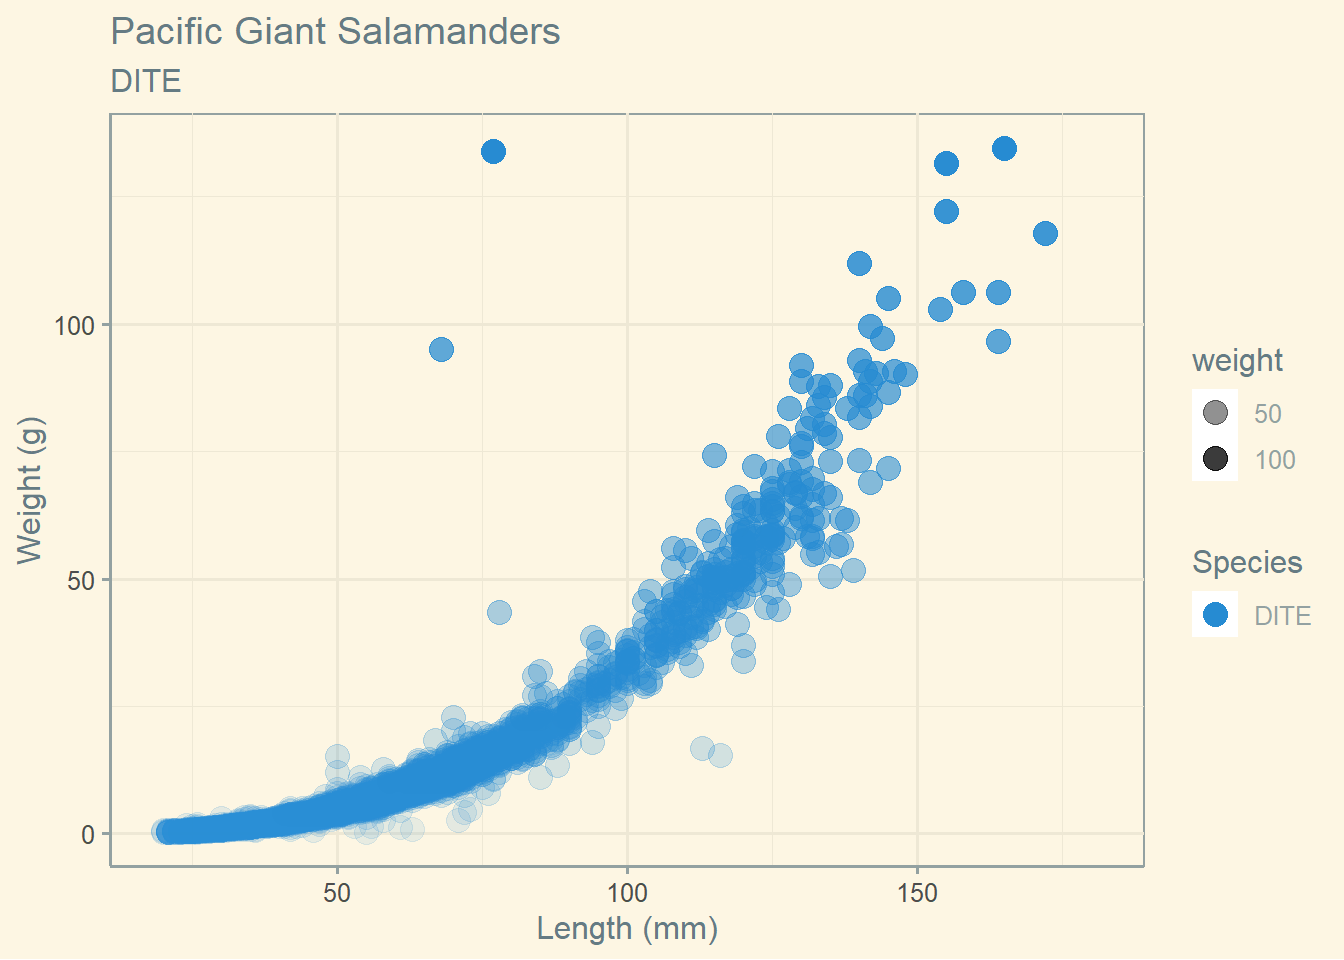
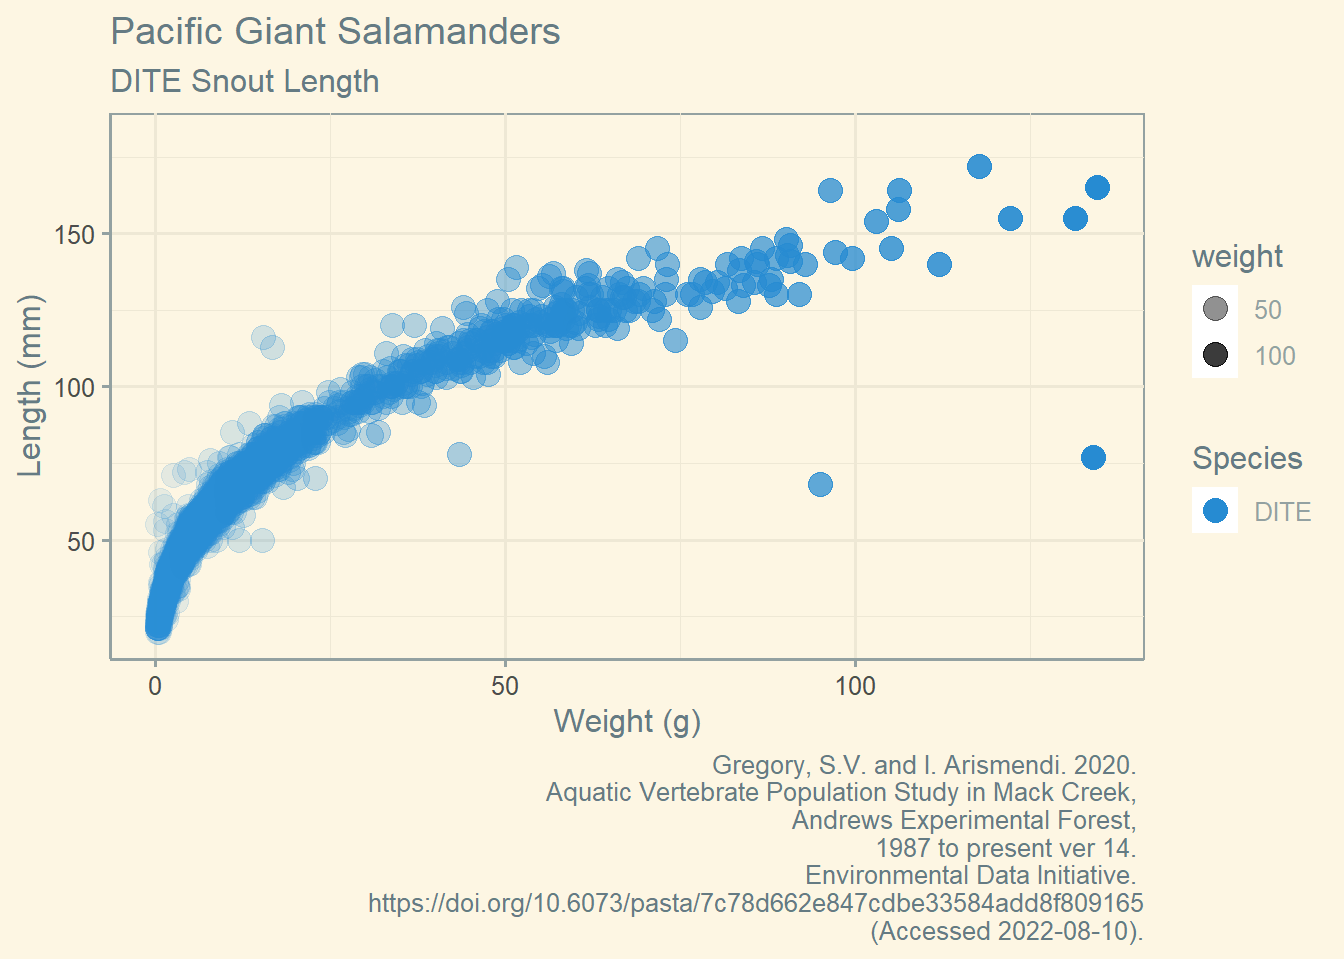
trout plot

diff --git a/wild_data.html b/wild_data.html
@@ -149,25 +149,69 @@ code span.wa { color: #60a0b0; font-weight: bold; font-style: italic; } /* Warni
 <p>Export your scatterplot as salamander_size.png to your figs folder.</p>
 <div class="cell">
 <div class="sourceCode cell-code" id="cb5"><pre class="sourceCode r code-with-copy"><code class="sourceCode r"><span id="cb5-1"><a href="#cb5-1" aria-hidden="true" tabindex="-1"></a><span class="fu">ggplot</span>(<span class="at">data =</span> mc_salamanders, <span class="fu">aes</span>(</span>
-<span id="cb5-2"><a href="#cb5-2" aria-hidden="true" tabindex="-1"></a>  <span class="at">x =</span> length1,</span>
-<span id="cb5-3"><a href="#cb5-3" aria-hidden="true" tabindex="-1"></a>  <span class="at">y =</span> weight,</span>
+<span id="cb5-2"><a href="#cb5-2" aria-hidden="true" tabindex="-1"></a>  <span class="at">x =</span> weight,</span>
+<span id="cb5-3"><a href="#cb5-3" aria-hidden="true" tabindex="-1"></a>  <span class="at">y =</span> length1,</span>
 <span id="cb5-4"><a href="#cb5-4" aria-hidden="true" tabindex="-1"></a>  <span class="at">alpha =</span> weight,</span>
 <span id="cb5-5"><a href="#cb5-5" aria-hidden="true" tabindex="-1"></a>  <span class="at">color =</span> species</span>
 <span id="cb5-6"><a href="#cb5-6" aria-hidden="true" tabindex="-1"></a>)) <span class="sc">+</span> <span class="fu">geom_point</span>(<span class="at">size =</span> <span class="dv">4</span>) <span class="sc">+</span> <span class="fu">theme_solarized</span>() <span class="sc">+</span></span>
 <span id="cb5-7"><a href="#cb5-7" aria-hidden="true" tabindex="-1"></a>  <span class="fu">scale_colour_solarized</span>(<span class="st">"blue"</span>) <span class="sc">+</span> <span class="fu">labs</span>(</span>
-<span id="cb5-8"><a href="#cb5-8" aria-hidden="true" tabindex="-1"></a>  <span class="at">title =</span> <span class="st">'Pacific Giant Salamanders'</span>,</span>
-<span id="cb5-9"><a href="#cb5-9" aria-hidden="true" tabindex="-1"></a>  <span class="at">subtitle =</span> <span class="st">"DITE"</span>,</span>
-<span id="cb5-10"><a href="#cb5-10" aria-hidden="true" tabindex="-1"></a>  <span class="at">x =</span> <span class="st">"Length (mm)"</span>,</span>
-<span id="cb5-11"><a href="#cb5-11" aria-hidden="true" tabindex="-1"></a>  <span class="at">y =</span> <span class="st">"Weight (g)"</span>,</span>
-<span id="cb5-12"><a href="#cb5-12" aria-hidden="true" tabindex="-1"></a>  <span class="at">color =</span> <span class="st">"Species"</span></span>
-<span id="cb5-13"><a href="#cb5-13" aria-hidden="true" tabindex="-1"></a>) </span></code><button title="Copy to Clipboard" class="code-copy-button"><i class="bi"></i></button></pre></div>
-<div class="sourceCode cell-code" id="cb6"><pre class="sourceCode r code-with-copy"><code class="sourceCode r"><span id="cb6-1"><a href="#cb6-1" aria-hidden="true" tabindex="-1"></a>?scale_colour_solarized</span>
+<span id="cb5-8"><a href="#cb5-8" aria-hidden="true" tabindex="-1"></a>    <span class="at">title =</span> <span class="st">'Pacific Giant Salamanders'</span>,</span>
+<span id="cb5-9"><a href="#cb5-9" aria-hidden="true" tabindex="-1"></a>    <span class="at">subtitle =</span> <span class="st">"DITE Snout Length"</span>,</span>
+<span id="cb5-10"><a href="#cb5-10" aria-hidden="true" tabindex="-1"></a>    <span class="at">caption =</span> <span class="st">"Gregory, S.V. and I. Arismendi. 2020. </span></span>
+<span id="cb5-11"><a href="#cb5-11" aria-hidden="true" tabindex="-1"></a><span class="st">    Aquatic Vertebrate Population Study in Mack Creek, </span></span>
+<span id="cb5-12"><a href="#cb5-12" aria-hidden="true" tabindex="-1"></a><span class="st">    Andrews Experimental Forest, </span></span>
+<span id="cb5-13"><a href="#cb5-13" aria-hidden="true" tabindex="-1"></a><span class="st">    1987 to present ver 14. </span></span>
+<span id="cb5-14"><a href="#cb5-14" aria-hidden="true" tabindex="-1"></a><span class="st">    Environmental Data Initiative. </span></span>
+<span id="cb5-15"><a href="#cb5-15" aria-hidden="true" tabindex="-1"></a><span class="st">    https://doi.org/10.6073/pasta/7c78d662e847cdbe33584add8f809165</span></span>
+<span id="cb5-16"><a href="#cb5-16" aria-hidden="true" tabindex="-1"></a><span class="st">    (Accessed 2022-08-10)."</span>,</span>
+<span id="cb5-17"><a href="#cb5-17" aria-hidden="true" tabindex="-1"></a>    <span class="at">x =</span> <span class="st">"Weight (g)"</span>,</span>
+<span id="cb5-18"><a href="#cb5-18" aria-hidden="true" tabindex="-1"></a>    <span class="at">y =</span> <span class="st">"Length (mm)"</span>,</span>
+<span id="cb5-19"><a href="#cb5-19" aria-hidden="true" tabindex="-1"></a>    <span class="at">color =</span> <span class="st">"Species"</span></span>
+<span id="cb5-20"><a href="#cb5-20" aria-hidden="true" tabindex="-1"></a>  ) </span></code><button title="Copy to Clipboard" class="code-copy-button"><i class="bi"></i></button></pre></div>
+<div class="sourceCode cell-code" id="cb6"><pre class="sourceCode r code-with-copy"><code class="sourceCode r"><span id="cb6-1"><a href="#cb6-1" aria-hidden="true" tabindex="-1"></a><span class="co"># ?scale_colour_solarized</span></span>
 <span id="cb6-2"><a href="#cb6-2" aria-hidden="true" tabindex="-1"></a><span class="co"># Ask about alpha in aes vs alpha in geom_point, added scale on side</span></span>
 <span id="cb6-3"><a href="#cb6-3" aria-hidden="true" tabindex="-1"></a><span class="co"># why does color= species in aes make it blue instead of black</span></span></code><button title="Copy to Clipboard" class="code-copy-button"><i class="bi"></i></button></pre></div>
 </div>
 <div class="cell">
-<div class="sourceCode cell-code" id="cb7"><pre class="sourceCode r code-with-copy"><code class="sourceCode r"><span id="cb7-1"><a href="#cb7-1" aria-hidden="true" tabindex="-1"></a><span class="co"># ggsave(here::here("figs","salamander_size.png"))</span></span></code><button title="Copy to Clipboard" class="code-copy-button"><i class="bi"></i></button></pre></div>
+<div class="sourceCode cell-code" id="cb7"><pre class="sourceCode r code-with-copy"><code class="sourceCode r"><span id="cb7-1"><a href="#cb7-1" aria-hidden="true" tabindex="-1"></a><span class="fu">ggsave</span>(here<span class="sc">::</span><span class="fu">here</span>(<span class="st">"docs"</span>,<span class="st">"salamander_size.png"</span>))</span></code><button title="Copy to Clipboard" class="code-copy-button"><i class="bi"></i></button></pre></div>
 </div>
+<section id="make-a-cutthroat-plot" class="level4">
+<h4 class="anchored" data-anchor-id="make-a-cutthroat-plot"><strong>Make a cutthroat plot</strong></h4>
+<ul>
+<li><p>Similar to above, make a subset called <code>mc_trout</code> that only contains observations for cutthroat trout (species "ONCL")</p></li>
+<li><p>Create a scatterplot of length1 by weight for all trout in the dataset</p></li>
+<li><p>Customize so that the point color depends on <em>reach</em></p></li>
+<li><p>Customize your color scheme (e.g.&nbsp;<code>scale_color_manual()</code>)</p></li>
+<li><p>Facet your plot by creek reach (<code>facet_wrap(~...)</code>)</p></li>
+<li><p>Update graph axis labels and title</p></li>
+<li><p>Export your graph as <code>cutthroat_size.png</code> to the <code>figs</code> folder</p></li>
+</ul>
+<div class="cell">
+<div class="sourceCode cell-code" id="cb8"><pre class="sourceCode r code-with-copy"><code class="sourceCode r"><span id="cb8-1"><a href="#cb8-1" aria-hidden="true" tabindex="-1"></a>mc_trout <span class="ot">&lt;-</span> mack_verts <span class="sc">%&gt;%</span> <span class="fu">filter</span>(species <span class="sc">==</span> <span class="st">"ONCL"</span>)</span>
+<span id="cb8-2"><a href="#cb8-2" aria-hidden="true" tabindex="-1"></a></span>
+<span id="cb8-3"><a href="#cb8-3" aria-hidden="true" tabindex="-1"></a></span>
+<span id="cb8-4"><a href="#cb8-4" aria-hidden="true" tabindex="-1"></a></span>
+<span id="cb8-5"><a href="#cb8-5" aria-hidden="true" tabindex="-1"></a><span class="fu">ggplot</span>(<span class="at">data =</span> mc_trout,</span>
+<span id="cb8-6"><a href="#cb8-6" aria-hidden="true" tabindex="-1"></a>       <span class="fu">aes</span>(<span class="at">x =</span> weight, <span class="at">y =</span> length1, <span class="at">color =</span> reach)) <span class="sc">+</span></span>
+<span id="cb8-7"><a href="#cb8-7" aria-hidden="true" tabindex="-1"></a>  <span class="fu">geom_point</span>() <span class="sc">+</span></span>
+<span id="cb8-8"><a href="#cb8-8" aria-hidden="true" tabindex="-1"></a>  <span class="fu">scale_color_manual</span>(<span class="at">values =</span> <span class="fu">c</span>(<span class="st">"black"</span>, <span class="st">"red"</span>, <span class="st">"green"</span>)) <span class="sc">+</span></span>
+<span id="cb8-9"><a href="#cb8-9" aria-hidden="true" tabindex="-1"></a>  <span class="fu">facet_wrap</span>( <span class="sc">~</span>reach) <span class="sc">+</span></span>
+<span id="cb8-10"><a href="#cb8-10" aria-hidden="true" tabindex="-1"></a>  <span class="fu">labs</span>(</span>
+<span id="cb8-11"><a href="#cb8-11" aria-hidden="true" tabindex="-1"></a>    <span class="at">title =</span> <span class="st">"Cutthroat Trout"</span>,</span>
+<span id="cb8-12"><a href="#cb8-12" aria-hidden="true" tabindex="-1"></a>    <span class="at">subtitle =</span> <span class="st">"Species ONCL Snout Vent Length"</span>,</span>
+<span id="cb8-13"><a href="#cb8-13" aria-hidden="true" tabindex="-1"></a>    <span class="at">x =</span> <span class="st">"Weight (g)"</span>,</span>
+<span id="cb8-14"><a href="#cb8-14" aria-hidden="true" tabindex="-1"></a>    <span class="at">y =</span> <span class="st">"Length (mm)"</span>,</span>
+<span id="cb8-15"><a href="#cb8-15" aria-hidden="true" tabindex="-1"></a>    <span class="at">caption =</span> <span class="st">"Gregory, S.V. and I. Arismendi. 2020.</span></span>
+<span id="cb8-16"><a href="#cb8-16" aria-hidden="true" tabindex="-1"></a><span class="st">    Aquatic Vertebrate Population Study in Mack Creek,</span></span>
+<span id="cb8-17"><a href="#cb8-17" aria-hidden="true" tabindex="-1"></a><span class="st">    Andrews Experimental Forest,</span></span>
+<span id="cb8-18"><a href="#cb8-18" aria-hidden="true" tabindex="-1"></a><span class="st">    1987 to present ver 14.</span></span>
+<span id="cb8-19"><a href="#cb8-19" aria-hidden="true" tabindex="-1"></a><span class="st">    Environmental Data Initiative.</span></span>
+<span id="cb8-20"><a href="#cb8-20" aria-hidden="true" tabindex="-1"></a><span class="st">    https://doi.org/10.6073/pasta/7c78d662e847cdbe33584add8f809165</span></span>
+<span id="cb8-21"><a href="#cb8-21" aria-hidden="true" tabindex="-1"></a><span class="st">    (Accessed 2022-08-10)."</span>) <span class="sc">+</span></span>
+<span id="cb8-22"><a href="#cb8-22" aria-hidden="true" tabindex="-1"></a>  <span class="fu">theme_calc</span>()</span></code><button title="Copy to Clipboard" class="code-copy-button"><i class="bi"></i></button></pre></div>
+<div class="sourceCode cell-code" id="cb9"><pre class="sourceCode r code-with-copy"><code class="sourceCode r"><span id="cb9-1"><a href="#cb9-1" aria-hidden="true" tabindex="-1"></a><span class="fu">ggsave</span>(here<span class="sc">::</span><span class="fu">here</span>(<span class="st">"docs"</span>,<span class="st">"cutthroat_size.png"</span>))</span></code><button title="Copy to Clipboard" class="code-copy-button"><i class="bi"></i></button></pre></div>
+</div>
+</section>
 
 </main>
 <!-- /main column -->
